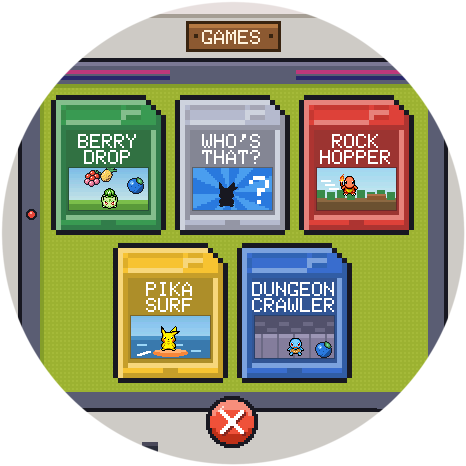
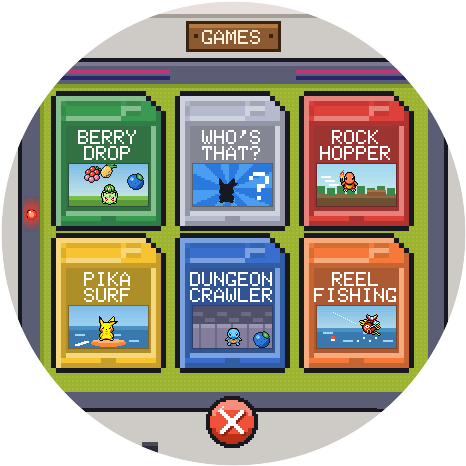
README and docs for Reel Fishing: its pictures, six games, the Dex's Catching tab
- README: a New: Reel Fishing section (a GIF of one whole cast, six stills: the cast,
  the bite, reeling with the LINE bar, the giant, the weigh-in's gauge, the end board),
  a line in What's in it, six mini games, the Dex's Catching tab, 3 attack training a
  win, Space in Reel Fishing; the tower's section is no longer the new one.
- Games and Play together retaken: six cartridges, the Game Boy's power light lit.
- HOW_IT_WORKS: a Reel Fishing section (the fish by size, the casts, nibbles, the bite,
  reeling, the weigh-in, the score).
- The web site's README: a row of Reel Fishing, and how to play it; publish_web.sh
  copies its three pictures.
- FISHING.md: the cast slots and the weigh-in's gauge as built.
- host_shot: REC n ms prefix records a moving picture frame by frame.

Every picture from a throwaway save on the test buddy port: FISHBOT's game (439.3 kg,
gold), kept off each weigh-in so the gauge says its line.

diff --git a/tools/host_shot.cpp b/tools/host_shot.cpp
@@ -2,7 +2,8 @@
 //   clang++ -std=c++17 -O2 -I host tools/host_shot.cpp build/host/libpokehost.a -framework CoreFoundation -o build/host_shot
 //   build/host_shot <resources> <save dir> <script>
 // Script lines: WAIT ms | SER <console line> | TAP x y | SWIPE x0 y0 x1 y1 | TAPQ x y (no wait after) | HOVER x y (-1 -1: off) |
-//               DOWN x y, then UP x y (a finger held there: WAIT between for how long) | SHOT file.ppm
+//               DOWN x y, then UP x y (a finger held there: WAIT between for how long) | SHOT file.ppm |
+//               REC n ms prefix (n frames ms apart, prefix-000.ppm on: a moving picture)
 // Run it with POKEMACGOCHI_BUDDY_PORT set to a test port, as every test copy is, so it never meets a real Knomi.
 #include "host.h"
 #include <stdio.h>
@@ -16,6 +17,15 @@ static void run(int ms) {
     hostTick();
     usleep(16000);
   }
+}
+
+static void shot(std::vector<uint8_t> &px, const char *path) {
+  hostFrameRGBA(px.data());
+  FILE *o = fopen(path, "wb");
+  if (!o) { perror(path); return; }
+  fprintf(o, "P6\n%d %d\n255\n", HOST_CANVAS_SIZE, HOST_CANVAS_SIZE);
+  for (size_t i = 0; i < px.size(); i += 4) fwrite(&px[i], 1, 3, o);
+  fclose(o);
 }
 
 int main(int argc, char **argv) {
@@ -50,12 +60,16 @@ int main(int argc, char **argv) {
       hostPointer(c, d, false); run(400);
     } else if (sscanf(line, "SHOT %399s", path) == 1) {
       run(60);
-      hostFrameRGBA(px.data());
-      FILE *o = fopen(path, "wb");
-      fprintf(o, "P6\n%d %d\n255\n", HOST_CANVAS_SIZE, HOST_CANVAS_SIZE);
-      for (size_t i = 0; i < px.size(); i += 4) fwrite(&px[i], 1, 3, o);
-      fclose(o);
+      shot(px, path);
       printf("shot %s\n", path);
+    } else if (sscanf(line, "REC %d %d %399s", &a, &b, path) == 3) {  // n frames, ms apart: path-000.ppm, path-001.ppm...
+      for (int k = 0; k < a; k++) {
+        run(b);
+        char name[420];
+        snprintf(name, sizeof(name), "%s-%03d.ppm", path, k);
+        shot(px, name);
+      }
+      printf("rec %s x%d\n", path, a);
     }
   }
   hostFlushSave();

diff --git a/README.md b/README.md
@@ -12,7 +12,7 @@
   <a href="relay/README.md"><img src="https://img.shields.io/badge/dynamic/json?url=https%3A%2F%2Fcatch151-relay.fedor-dd0.workers.dev%2Fstats&query=%24.online&label=live%20players&color=2ea043&cacheSeconds=300" alt="Live players right now"></a>
 </p>
 
-**Catch 151** (until 2.2.0 called PokeKnomiGochi) is a Pokémon game for the **BTT Knomi V2**, the little round screen made for 3D printers, and for your Mac, your Windows PC and your browser. Raise any of the original 151 as it walks through its own pixel world, battle and catch wild Pokémon, climb Knomi Tower, fill your [Pokédex](https://fedorsosnin.github.io/Catch151/sprites/), and play mini games by tapping and tilting.
+**Catch 151** (until 2.2.0 called PokeKnomiGochi) is a Pokémon game for the **BTT Knomi V2**, the little round screen made for 3D printers, and for your Mac, your Windows PC and your browser. Raise any of the original 151 as it walks through its own pixel world, battle and catch wild Pokémon, climb Knomi Tower, fill your [Pokédex](https://fedorsosnin.github.io/Catch151/sprites/), and play six mini games by tapping and tilting, the newest a fishing contest off the Beach's pier.
 
 | | |
 |:--:|:--:|
@@ -21,7 +21,7 @@
 
 **No Knomi? [Play it in your browser](https://catch151.3dprintsos.com)** on a computer, phone or tablet, or get the [Mac app](#catch-151-for-mac) or the [Windows app](#catch-151-for-windows). **CRT effect:** each scanline a soft beam, a warm glow, a slightly curved glass for that nostalgia look.
 
-**[Catch 151 Dex](https://fedorsosnin.github.io/Catch151/sprites/)**: all 151, regular and shiny, in every view the game has (standing, turning, walking, from behind, asleep, attacking and more), sorted by number or type, each credited to its artists. Each one's page says what the game's Pokédex says about it, with its stats and every move it learns; pick a few to see their match-ups, and tick the ones you have.
+**[Catch 151 Dex](https://fedorsosnin.github.io/Catch151/sprites/)**: all 151, regular and shiny, in every view the game has (standing, turning, walking, from behind, asleep, attacking and more), sorted by number or type, each credited to its artists. Each one's page says what the game's Pokédex says about it, with its stats and every move it learns; pick a few to see their match-ups, and tick the ones you have. Its **Catching** tab gives the chances of each star, 1★ to 3★, regular and shiny: of a catch, and of a Search in its zone or a Wild Encounter turning it up that way.
 
 ## What's in it
 
@@ -42,6 +42,8 @@
 <img src="docs/images/v2/pokeball.png" width="18" alt=""> **Fill the Pokédex.** All 151, with their shiny forms, each caught with 1 to 3 stars. Every entry turns round to show its Pokémon from all sides. **[View the Pokédex](https://fedorsosnin.github.io/Catch151/sprites/)**: all of them, regular and shiny, in every view.
 
 <img src="docs/images/v2/pokeball.png" width="18" alt=""> **Travel Knomi Island.** Five zones on a round island that's alive: foam runs round the coast, the pines sway and the Mansion's windows light up and go dark. See what's still missing in each, then follow the pier out to Knomi Tower.
+
+<img src="docs/images/v2/pokeball.png" width="18" alt=""> **Go fishing.** New: **Reel Fishing**, five casts off the Beach's pier. Pick a fish by its shadow, strike when the float goes under and reel it in to its own beat, then weigh it and let it go. The score is the total weight, against bronze, silver and gold.
 
 <img src="docs/images/v2/pokeball.png" width="18" alt=""> **Six mini games.** Berry Drop, Rock Hopper, PikaSurf, Dungeon Crawler, Who's That Pokémon? and Reel Fishing, on cartridges in a Game Boy. **Play Again!** at the end.
 
@@ -107,8 +109,8 @@ The Knomi's own 466 × 466 round screen, just as it shows the game. The computer
 | **Battle wild Pokémon** | **Pick a ball and throw** | **Catch them, 1 to 3 ★** |
 | ![The Pokédex at 55 of 151, with stars and sparkling shinies](docs/images/v2/pokedex.png) | ![Knomi Island: the round island with five zones, the coast's foam and waves moving](docs/images/v2/travel.gif) | ![The Forest's Pokémon: 23 of 41, with Search](docs/images/v2/zone.png) |
 | **Fill the Pokédex** | **Travel Knomi Island** | **See what's missing** |
-| ![The games: five cartridges on a Game Boy's screen](docs/images/v2/games.png) | ![Rock Hopper's how-to card over the game](docs/images/v2/howto.png) | ![Berry Drop's end: the score, Play Again! and the Repel bar](docs/images/v2/game-end.png) |
-| **Five mini games** | **How to play, before each game** | **Play Again!** |
+| ![The games: six cartridges on a Game Boy's screen, Reel Fishing's orange one last, the power light lit](docs/images/v2/games.png) | ![Rock Hopper's how-to card over the game](docs/images/v2/howto.png) | ![Berry Drop's end: the score, Play Again! and the Repel bar](docs/images/v2/game-end.png) |
+| **Six mini games** | **How to play, before each game** | **Play Again!** |
 | ![Who's That Pokémon? A silhouette, three names and ten seconds on the clock](docs/images/v2/quiz.png) | ![The trophy room: 11 of 26 medals](docs/images/v2/trophy-room.png) | ![The shiny medal's card: a gem under a spotlight, earned](docs/images/v2/medal-card.png) |
 | **Who's That Pokémon?** | **The trophy room** | **How to earn each medal** |
 | ![The backpack's band out of the bag: three berries, a candy and a Repel](docs/images/v2/backpack.png) | ![Gengar in the bath, with bubbles and a duck](docs/images/v2/bath.png) | ![A new medal dropping in on a ribbon](docs/images/v2/medal-banner.png) |
@@ -118,7 +120,24 @@ The Knomi's own 466 × 466 round screen, just as it shows the game. The computer
 | ![Say goodbye? Goodbye or Stay together](docs/images/v2/goodbye.png) | ![Release GENGAR? It goes back to the wild](docs/images/v2/release.png) | ![Settings: Wi-Fi, Check for update and Auto-update](docs/images/v2/settings.png) |
 | **One day, a goodbye** | **Let it go** | **Updates over Wi-Fi** |
 
-## New: the Knomi Tower Battle System
+## New: Reel Fishing
+
+<p align="center"><img src="docs/images/v2/fishing.gif" alt="One cast of Reel Fishing: the float flies out, dips at two nibbles and goes under with a !, the Tentacool is reeled in to its beat with the LINE bar's white needle on the right, leaps out and is weighed on the gold gauge on the left: 42.3 kg" width="360"></p>
+
+The sixth cartridge on the Game Boy, and a fishing contest: five casts off the end of the pier at the Beach, the rod in your hands. The water holds the Beach's Pokémon as shadows, small ones near the pier and heavy ones out in the deep, and the bigger the shadow, the heavier the fish. Tap the water by the one you want, wait out the nibbles and strike when the float goes under. Then reel it in by tapping to its beat: each weight has its own pace, quick for the small ones and slow and steady for the heavy ones, and the **LINE** bar on the right shows the line's strain, its white needle rising with every tap and sinking as the fish pulls. Keep it in the green: too fast and the line snaps, too slow and the fish slips off. Every fish is weighed, a gold gauge on the left filling to its weight and saying how big it is for one of its kind, then it goes back in the water. Five casts add up to your score, against bronze, silver and gold lines at 50, 150 and 300 kg, and one giant swims in every game, Gyarados or Lapras, the hardest fish of all to land.
+
+It all shows on the screen, so it plays as well on the Knomi, which has no speaker (its backlight flashes at the bite). On a computer and the web it has its own sounds and two new songs, the fight song playing at the fish's pace, and phones and controllers buzz along.
+
+| | | |
+|:--:|:--:|:--:|
+| ![Tap the water: the casts along the top, 248.1 kg so far, the fish as shadows and the giant's big one in the deep](docs/images/v2/fishing-cast.png) | ![The bite: the float pulled under, a ! over it, the screen's edge glowing and TAP!](docs/images/v2/fishing-bite.png) | ![Reeling a Seel in: the hooked shadow swelling on the beat and the LINE bar's needle in the green](docs/images/v2/fishing-reel.png) |
+| **Pick a fish by its shadow** | **Strike when the float goes under** | **Reel it in to its beat** |
+| ![The giant on the line, SLOW AND STEADY, its green narrow at the top of the LINE bar](docs/images/v2/fishing-giant.png) | ![The weigh-in: a Seel over the pier, the gold gauge full, 96.5 kg, A BIG ONE FOR A SEEL!, then BACK IN IT GOES!](docs/images/v2/fishing-weigh.png) | ![The end: 439.3 kg from five fish, the bronze, silver and gold line, GOLD! NEW RECORD! and Play Again!](docs/images/v2/fishing-end.png) |
+| **A giant in every game** | **Weighed, then let go** | **Bronze, silver or gold** |
+
+How it all works: [Reel Fishing](docs/HOW_IT_WORKS.md#reel-fishing).
+
+## The Knomi Tower Battle System
 
 <p align="center"><img src="docs/images/v2/tower-climb.gif" alt="A climb of Knomi Tower: the tower's islet, the tower, the team, who goes first, a floor fight, both balls' bars, the Rock Badge, the Legend, Mewtwo, Tower Master and the challenges" width="360"></p>
 
@@ -290,7 +309,7 @@ Charmander, for example, starts with Scratch, learns Ember at level 9, Slash at 
 
 Your Pokémon's ATK, DEF and SPD grow as it levels up, and training adds more on top:
 
-- **Winning a battle** adds attack training.
+- **Winning a battle** adds attack training: 3 a win, so 34 wins fill it.
 - **Every 6 hours of good care** (every need at 40 or more) adds defense training. Sleep counts, and a need can dip under 40 for up to 15 minutes before the 6 hours start over.
 - **Mini games** (Berry Drop, Rock Hopper, PikaSurf, Dungeon Crawler, Reel Fishing) add speed training.
 - **Weight** isn't training: food adds it (candy the most), and games, battles and time burn it off. Over 50, your Pokémon tires twice as fast.
@@ -318,7 +337,7 @@ Tap the **handheld** icon, on the left, for the mini games: cartridges on a Game
 - **Dungeon Crawler:** explore a cave floor by floor. Tap toward where you want to step, or hold to keep walking. Walk into a wild Pokémon to attack it with your own best move, pick up Razz, Oran and Pinap Berries to heal, and find the stairs down. A better-trained Pokémon gets deeper.
 - **Rock Hopper:** tap to jump over rocks, bushes, fallen logs, stumps and mushrooms in a forest that keeps getting faster. How long can you last?
 - **PikaSurf:** your Pokémon surfs down the rushing water on a board; tilt, drag it or use the arrow keys to dodge the rocks coming up in three lanes. Pikachu surfs alongside and never hits one, until he pulls ahead out of sight. It keeps speeding up, and one rock ends the run.
-- **Reel Fishing:** five casts off the pier at the Beach. Tap the water by a fish (the bigger the shadow, the heavier it is), wait out the nibbles, and tap when the float goes under. Then tap to the beat to reel it in: too fast and the line snaps, too slow and it slips off, and each weight has its own pace (on a computer the fight song plays it; on the Knomi the fish swells on it). Every fish is weighed and let go: the score is the total weight, against bronze, silver and gold lines at 50, 150 and 300 kg. One giant comes in every game.
+- **Reel Fishing:** five casts off the pier at the Beach, the rod in your hands. Tap the water by a fish (the bigger the shadow, the heavier it is; bubbles over one mean it's about to bite), wait out the nibbles, and tap when the float goes under. Then tap to the beat to reel it in, keeping the white needle in the green of the **LINE** bar on the right: too fast and the line snaps, too slow and it slips off, and each weight has its own pace (the fish swells on it, and on a computer the fight song plays it). Every fish is weighed, a gold gauge on the left filling to its weight and saying how big it is for its kind, then let go: the score is the total weight, against bronze, silver and gold lines at 50, 150 and 300 kg. One giant comes in every game. The Knomi's button (Space on a computer) casts, strikes and reels too.
 - **Who's That Pokémon?:** name the silhouette, ten rounds per game, never the same Pokémon twice. Each one has ten seconds on the clock: run out and it counts as wrong, and the answer shows.
 - **Berry Drop:** in the woods under two tall berry trees, tilt left and right, or drag your Pokémon with a finger, to catch falling berries. They fall faster with every catch, with no top speed, so every game ends.
 
@@ -470,7 +489,7 @@ The code also builds for the Waveshare ESP32-S3-Touch-AMOLED-1.75, a bigger roun
 
 - **Saves:** it saves in the browser by itself. Clearing the browser's data erases it, so use **Export save** now and then for a backup file, and **Import save** to bring a Pokémon back or move it to another browser. Coming from V1, your Pokémon comes along by itself, and V1's save stays as it was.
 - **One tab at a time:** a second tab offers **Play here**, which moves the game over after the first one saves.
-- **Controls:** tap, hold and swipe the screen, as on the Knomi (see [How to play](#how-to-play)). On a phone, tilt it to aim the ball and to steer in PikaSurf and Berry Drop; where the browser asks first, **Enable tilt** turns it on. On Android it also buzzes along with the sounds; **Vibration** turns that off (iPhone browsers can't vibrate). On a computer, the mouse is a finger that presses when you click, the left and right arrows tilt, all four arrows walk in Dungeon Crawler, Space is the Knomi's button, and on a catch the left and right arrows choose a ball and Space or the up arrow throws it.
+- **Controls:** tap, hold and swipe the screen, as on the Knomi (see [How to play](#how-to-play)). On a phone, tilt it to aim the ball and to steer in PikaSurf and Berry Drop; where the browser asks first, **Enable tilt** turns it on. On Android it also buzzes along with the sounds; **Vibration** turns that off (iPhone browsers can't vibrate). On a computer, the mouse is a finger that presses when you click, the left and right arrows tilt, all four arrows walk in Dungeon Crawler, Space is the Knomi's button (in Reel Fishing it casts, strikes and reels), and on a catch the left and right arrows choose a ball and Space or the up arrow throws it.
 - **Size and CRT:** it opens Large, with the CRT screen on. **Size** makes it Small or Medium, like the Mac app, and on a small screen it shrinks to fit. **CRT** turns the effect off for the Knomi's own look; a browser without WebGL 2 shows that look by itself.
 - **Sound and Music:** **Sound** turns the effects and cries off and on, and **Music** steps the music down from High to Medium, Low and Off, each on its own. Settings in the ring has a level from 0 to 3 for each.
 - **Buddies:** browsers can't send the Knomi's local Wi-Fi messages, so they meet buddies through a small relay on the internet that only passes those same messages between devices on the same home network and stores nothing. Knomis and the Mac and Windows apps use it too, so they all meet each other.
@@ -488,7 +507,7 @@ The same game as a round window on your Mac desktop, in a Poké Ball ring with a
 
    Or, in Terminal: `xattr -dr com.apple.quarantine "/Applications/Catch 151.app"`
 
-**Controls:** click, hold and swipe like a touch screen. The left and right arrows tilt, for Berry Drop and throwing Poké Balls, and all four arrows walk in Dungeon Crawler. Space is the Knomi's button, for a wild battle; on a catch, the left and right arrows choose a ball and Space or the up arrow throws it. Drag the red and white ring to move the window: it grows when the mouse is over it, so it's easy to grab, and the screen inside is only for touching, with the mouse as a finger. Right-click it, or click the Poké Ball in the menu bar, for About, Size, CRT Screen, Mute Sound, Music (Off, Low, Medium or High), Check for Updates, Update Automatically and Quit.
+**Controls:** click, hold and swipe like a touch screen. The left and right arrows tilt, for Berry Drop and throwing Poké Balls, and all four arrows walk in Dungeon Crawler. Space is the Knomi's button, for a wild battle (in Reel Fishing it casts, strikes and reels); on a catch, the left and right arrows choose a ball and Space or the up arrow throws it. Drag the red and white ring to move the window: it grows when the mouse is over it, so it's easy to grab, and the screen inside is only for touching, with the mouse as a finger. Right-click it, or click the Poké Ball in the menu bar, for About, Size, CRT Screen, Mute Sound, Music (Off, Low, Medium or High), Check for Updates, Update Automatically and Quit.
 
 **Size and CRT Screen:** it opens Large, with the CRT screen on. **Size** makes it Medium or Small, sharp at every size, and **CRT Screen** turns the effect off for the Knomi's own look.
 

diff --git a/webgame/SITE_README.md b/webgame/SITE_README.md
@@ -2,7 +2,7 @@
 
 [![Live players](https://img.shields.io/badge/dynamic/json?url=https%3A%2F%2Fcatch151-relay.fedor-dd0.workers.dev%2Fstats&query=%24.online&label=live%20players&color=de2121&cacheSeconds=300)](https://catch151.3dprintsos.com)
 
-**A Pokémon virtual pet in your browser.** Raise one of the original 151, battle and catch wild Pokémon, climb Knomi Tower, fill your Pokédex, play mini games and meet your buddies. Free, with nothing to install.
+**A Pokémon virtual pet in your browser.** Raise one of the original 151, battle and catch wild Pokémon, climb Knomi Tower, fill your Pokédex, go fishing, play mini games and meet your buddies. Free, with nothing to install.
 
 ### [▶ Play now at catch151.3dprintsos.com](https://catch151.3dprintsos.com)
 
@@ -14,9 +14,11 @@
 |:--:|:--:|:--:|
 | ![Pikachu walking toward you through the Forest](images/walk-forest.gif) | ![Charizard's fire attack on a wild Pikachu](images/battle.png) | ![An Ultra Ball thrown at a running Pikachu: it hits, drops and holds](images/catch.gif) |
 | **Raise your Pokémon** | **Battle wild Pokémon** | **Catch what you beat** |
+| ![Reel Fishing: reeling a fish in to its beat, the LINE bar on the right](images/fishing.gif) | ![The weigh-in: a gold gauge fills to the fish's weight](images/fishing-weigh.png) | ![The end of a game: five weights and the total against bronze, silver and gold](images/fishing-end.png) |
+| **New: Reel Fishing** | **Weigh each one, then let it go** | **Bronze, silver or gold** |
 | ![Knomi Tower: eight floors and the Legend](images/tower.png) | ![Who goes first? Your team against a floor's guardian](images/tower-lead.png) | ![TOWER MASTER! The Hall of Fame and a Master Ball](images/tower-master.png) |
-| **New: climb Knomi Tower** | **Your Pokémon and two friends** | **Beat Mewtwo at the top** |
-| ![Knomi Island: five zones to hunt in](images/travel.gif) | ![The Pokédex](images/pokedex.png) | ![The mini games on a Game Boy](images/games.png) |
+| **Climb Knomi Tower** | **Your Pokémon and two friends** | **Beat Mewtwo at the top** |
+| ![Knomi Island: five zones to hunt in](images/travel.gif) | ![The Pokédex](images/pokedex.png) | ![Six mini games on a Game Boy](images/games.png) |
 | **Choose where to hunt** | **Fill the Pokédex** | **Play mini games** |
 | ![Pikachu with Eevee and Squirtle visiting](images/buddies.png) | ![Battle, trade or play with a buddy](images/buddy-menu.png) | ![A hold on your Pokémon: Settings, Medals, Stats and the Pokédex](images/radial.gif) |
 | **Buddies come to play** | **Battle, trade or play with them** | **Hold it for a menu** |
@@ -41,7 +43,8 @@ Tap, hold and swipe the screen, and tilt your phone to aim a Poké Ball. iPhones
 - **Hold your Pokémon** for the menu, a ring of **Settings** (sound, language, and an **About** page with links to the code and the YouTube channel), **Medals** (the trophy room), **Stats** (its card: tap its name there to rename it) and the **Pokédex**. Slide onto one and let go, or let go first and tap one. The round **✕** at the bottom closes any of them, and the arrows at the sides (or a swipe) slide their pages across.
 - **Battle** with the map icon: travel to a zone and search, or tap **Wild Encounter** to meet a wild Pokémon at your Pokémon's home, and catch what you beat to fill your Pokédex: tap a ball to choose it and **Throw** to throw it at the Pokémon running back and forth, leaning (or using the arrow keys) to aim. Every catch has 1 to 3 ★, and a better one replaces yours. Every 25 battles you see through earn an **Ultra Ball**, which triples the chance, and every 100 a **Master Ball**, which always catches.
 - **Knomi Tower:** on Travel, tap the arrow on the right to follow the pier out to the tower, then **CLIMB!** with a full energy bar. Your Pokémon and two friends from your Pokédex fight eight floors of type guardians and then the Legend and Mewtwo, their HP carrying over from fight to fight. **Who goes first?** marks who should win each fight. Beating the Legend earns a Master Ball every time.
-- On a computer, the mouse is a finger: it presses when you click, and what's under it lifts a little. The **left and right arrows** tilt, **all four arrows** walk in Dungeon Crawler, **Space** starts a wild battle, and on a catch the **left and right arrows** choose a ball and **Space** or the **up arrow** throws it.
+- **Reel Fishing**, the sixth cartridge: five casts off the Beach's pier. Tap the water by a fish (big shadows weigh more), tap when the float goes under, then tap to the beat to reel it in, keeping the white needle in the green of the **LINE** bar. Every fish is weighed and let go, and the total weight goes for bronze (50 kg), silver (150) and gold (300).
+- On a computer, the mouse is a finger: it presses when you click, and what's under it lifts a little. The **left and right arrows** tilt, **all four arrows** walk in Dungeon Crawler, **Space** starts a wild battle (and casts, strikes and reels in Reel Fishing), and on a catch the **left and right arrows** choose a ball and **Space** or the **up arrow** throws it.
 
 ## Training
 

diff --git a/docs/HOW_IT_WORKS.md b/docs/HOW_IT_WORKS.md
@@ -46,6 +46,26 @@ Berry Drop, Rock Hopper, PikaSurf, Dungeon Crawler and Reel Fishing each add at 
 
 At the end, **Play Again!** starts the same game again and the ✕ goes back to the games; a tap on the Repel bar under them opens the Repel's page on your Pokémon's card. Every second you actually play counts toward a Repel (see [Items](#items)): not the how-to card or the end, and only while you're touching, tilting or pressing keys, so sitting in the dungeon earns nothing. The games with a buddy count too.
 
+### Reel Fishing
+
+Five casts off the end of the Beach's pier. The fish are the Beach's water Pokémon, seen as shadows, and each one weighs 0.8 to 1.2 times its Pokédex weight: the bigger its shadow, the heavier it is. The score is the total weight of the fish you land, and every one is let go.
+
+| Size | Weight | Where | Fish | Taps a second | Green | Good taps | Strike within |
+|---|---|---|---|---:|---:|---:|---:|
+| **Small** | 3–15 kg | The shallows | Shellder, Krabby, Horsea, Magikarp, Poliwag | 3.2 | 62–80% | 22 | 0.9 s |
+| **Middling** | 16–55 kg | The shallows and open water | Psyduck, Slowpoke, Goldeen, Poliwhirl, Seadra, Staryu, Seaking, Tentacool | 2.5 | 65–82% | 26 | 0.75 s |
+| **Big** | 44–108 kg | Open water and the deep | Tentacruel, Kingler, Golduck, Slowbro, Starmie, Seel | 2.0 | 68–84% | 30 | 0.65 s |
+| **Heavy** | 96–159 kg | The deep | Dewgong, Cloyster | 1.6 | 71–86% | 31 | 0.6 s |
+| **Giant** | 176–282 kg | The deep | Lapras, Gyarados | 1.25 | 74–88% | 33 | 0.6 s |
+
+- **The water:** there are always 3 small, 2 middling and 1 big fish in sight (now and then a heavy one in the big one's place), and a fish that's gone comes back as another of its size 2.5 seconds later. One giant swims in for cast 3, 4 or 5 of every game and stays until it's hooked or the game ends. About 1 fish in 100 is shiny.
+- **Casting:** tap the water (or aim with the tilt or the arrow keys and press the button or Space). The float lands out past the middle of the screen, within a little of where you tapped. The fish nearest the float comes round to the hook, sooner the closer it is; bubbles over a fish mean it's eager and bites quicker.
+- **Nibbles:** before the bite the float dips a few times: none (then the bite takes longer) 20 casts in 100, one 15, two 35 and three 30. A tap on a nibble is **TOO SOON!**: that fish darts off and another comes, and the cast goes on.
+- **The bite:** the float goes under, with a **!**, a splash and the screen's edge glowing, and the Knomi's backlight flashes. Tap within the strike time in the table, or **TOO SLOW!** and it's gone with that cast. A strike in the first third of that time is clean and starts the fight with the needle in the middle of the green; a late one starts it near the slack end.
+- **Reeling:** each tap tightens the line by a step, and the fish pulls it back between taps, a little harder or softer on each beat. The **LINE** bar on the right shows it, its white needle rising and sinking: a tap with the needle in the green counts toward landing it (the good taps in the table), and the fish comes in toward the pier as they add up. Over the green, the bar turns red (**SLOWER!**), and the needle reaching the top snaps the line. Under it, the line goes slack (**FASTER!**), and 1.5 seconds slack and it slips off. Now and then the fish thrashes and pulls the line tighter for a moment: the blob flashes just before, so tap slower through it. The hooked fish swells on every beat, and on a computer and the web the fight song plays at its pace, one tap a beat.
+- **The weigh-in:** a fish landed leaps out with its name, then a gold gauge on the left fills to its weight and says how big it is for one of its kind (**A SMALL ONE**, **A GOOD ONE** or **A BIG ONE**), and back in it goes. A giant landed is **THE BIG ONE!**
+- **The score:** the five casts' weights add up against three lines, **bronze at 50 kg, silver at 150 and gold at 300**, and your best total is kept. Joy and speed training come from the total, a point for every 20 kg: 2 joy a point (up to +35 in all) and 1 speed training for every 5 points, so every 100 kg.
+
 ## Battles
 
 Your Pokémon needs at least 15 ⚡ to fight.

diff --git a/docs/FISHING.md b/docs/FISHING.md
@@ -42,9 +42,11 @@ The game is on this branch, playable on the Knomi, Mac, Windows and the web; not
 
 ## It isn't catching
 
-- No Poke Balls anywhere, no Pokedex, never "caught" or "NEW!". The casts along the top are numbered 1 to 5.
-- Every fish is weighed on a scale at the pier (mockup 11), its weight goes on your total, and it hops back in: BACK
-  IN IT GOES!
+- No Poke Balls anywhere, no Pokedex, never "caught" or "NEW!". The casts along the top are five round see-through slots in the icon band's ink, each
+  showing the fish it landed (they were numbered 1 to 5 in the mockups).
+- Every fish is weighed, its weight goes on your total, and it hops back in: BACK IN IT GOES! The scale at the pier of
+  mockup 11 became a gold gauge on the left rim (the LINE bar's twin), filling to the weight with a needle and then
+  saying how big it is for one of its kind: A SMALL ONE, A GOOD ONE or A BIG ONE FOR A STARYU.
 - The score is kilograms, as in a fishing contest. The how-to card says "Each one is weighed, then let go."
 - The Pokemon's names still show (STARYU!); they're just never kept.
 
